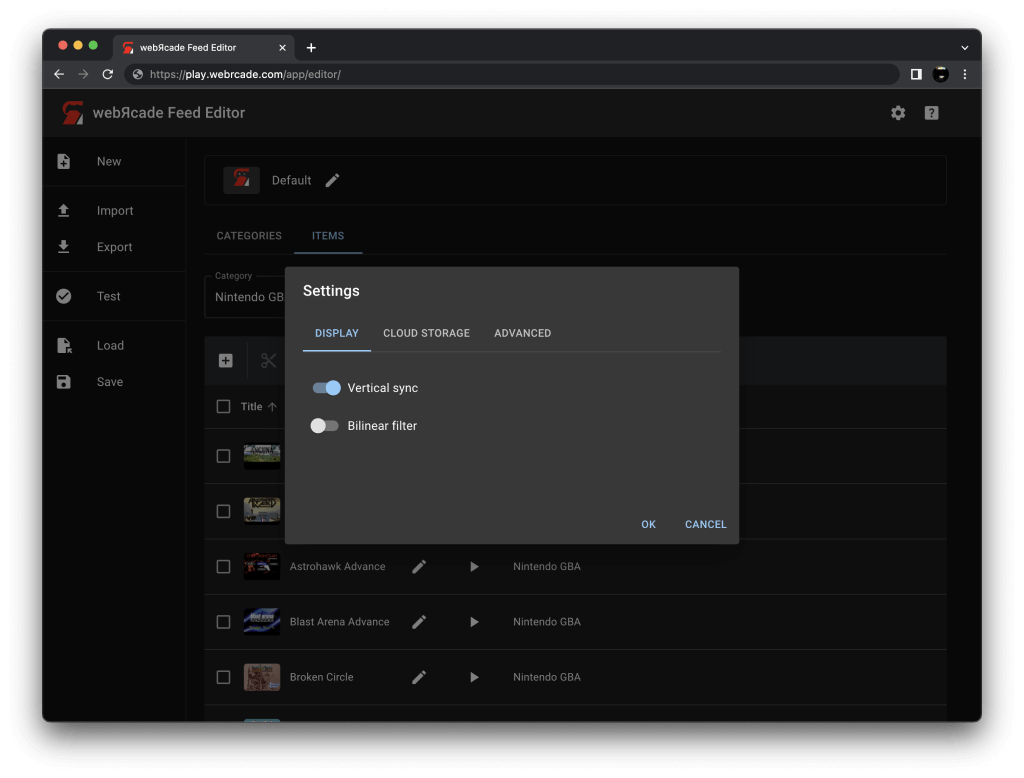
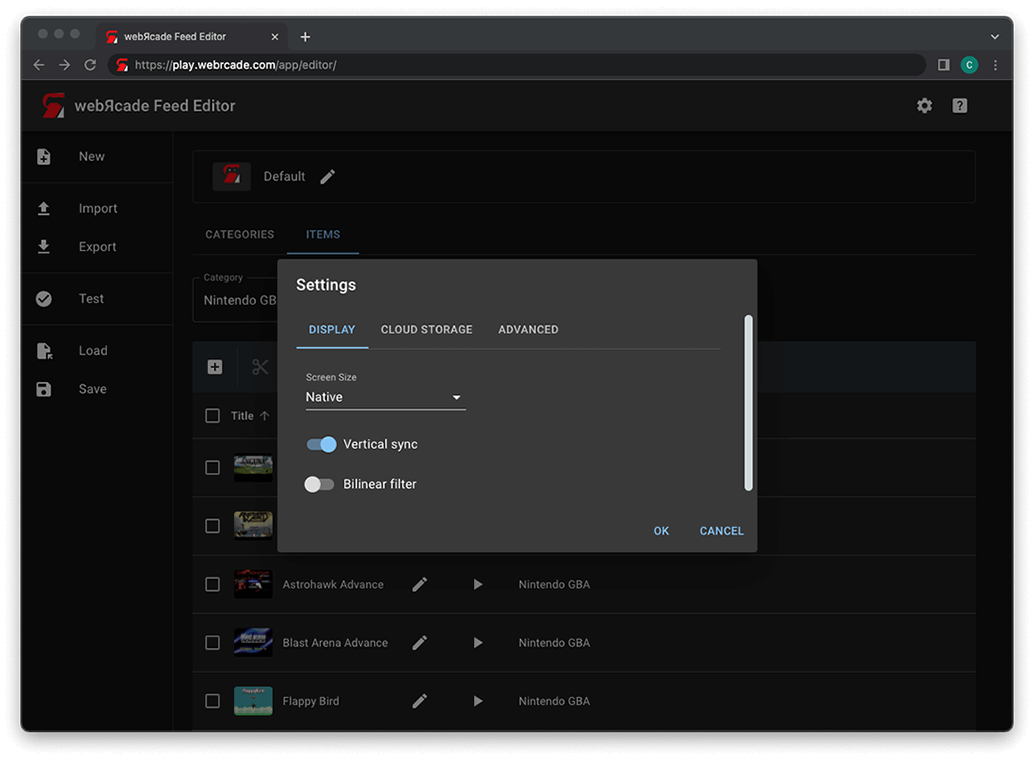
release 0.1.1

Changed region(s): [[0.0, 0.0, 1.0, 0.9974], [0.2188, 0.2116, 0.3438, 0.2418]]

diff --git a/docs/apps/emulators/sg1000/index.md b/docs/apps/emulators/sg1000/index.md
@@ -2,7 +2,7 @@
 
 ## Overview
 
-The Sega SG-1000 application is an emulator for the [Sega SG-1000 game console](https://en.wikipedia.org/wiki/SG-1000). 
+The Sega SG-1000 application is an emulator for the [Sega SG-1000 game console](https://en.wikipedia.org/wiki/SG-1000).
 
 <figure>
   <img src="../../../assets/images/apps/sg1000.png" style="padding:5px 15px 0 15px;" class="center zoomD"/>
@@ -19,11 +19,11 @@ Keyboard support is only available for controller one.
 
 | __Name__ | <div style="min-width:140px">__Keys__</div> | __Comments__ |
 |--------------------------|---------------------------------------------| |
-| Move | ![](../../../assets/images/controller/Keyboard & Mouse/Dark/Arrow_Up_Key_Dark.png){: class="control"} ![](../../../assets/images/controller/Keyboard & Mouse/Dark/Arrow_Down_Key_Dark.png){: class="control"} ![](../../../assets/images/controller/Keyboard & Mouse/Dark/Arrow_Left_Key_Dark.png){: class="control"} ![](../../../assets/images/controller/Keyboard & Mouse/Dark/Arrow_Right_Key_Dark.png){: class="control"}  | |                  
-| 1/Start | ![](../../../assets/images/controller/Keyboard & Mouse/Dark/Z_Key_Dark.png){: class="control"} | |                  
-| 2 | ![](../../../assets/images/controller/Keyboard & Mouse/Dark/X_Key_Dark.png){: class="control"} | |                  
-| Pause | ![](../../../assets/images/controller/Keyboard & Mouse/Dark/Enter_Key_Dark.png){: class="control"} | |                  
-| Show Pause Screen | ![](../../../assets/images/controller/Keyboard & Mouse/Dark/Esc_Key_Dark.png){: class="control"} | |                  
+| Move | ![](../../../assets/images/controller/Keyboard & Mouse/Dark/Arrow_Up_Key_Dark.png){: class="control"} ![](../../../assets/images/controller/Keyboard & Mouse/Dark/Arrow_Down_Key_Dark.png){: class="control"} ![](../../../assets/images/controller/Keyboard & Mouse/Dark/Arrow_Left_Key_Dark.png){: class="control"} ![](../../../assets/images/controller/Keyboard & Mouse/Dark/Arrow_Right_Key_Dark.png){: class="control"}  | |
+| 1/Start | ![](../../../assets/images/controller/Keyboard & Mouse/Dark/Z_Key_Dark.png){: class="control"} | |
+| 2 | ![](../../../assets/images/controller/Keyboard & Mouse/Dark/X_Key_Dark.png){: class="control"} | |
+| Pause | ![](../../../assets/images/controller/Keyboard & Mouse/Dark/Enter_Key_Dark.png){: class="control"} | |
+| Show Pause Screen | ![](../../../assets/images/controller/Keyboard & Mouse/Dark/Esc_Key_Dark.png){: class="control"} | |
 
 ### Gamepad
 
@@ -42,28 +42,30 @@ Gamepad support is available for both controllers.
 | Show Pause Screen<br>(Alternate 3)        | ![](../../../assets/images/controller/Xbox Series X/XboxSeriesX_LT.png){: class="control"} &nbsp;and&nbsp; ![](../../../assets/images/controller/Xbox Series X/XboxSeriesX_Left_Stick_Click.png){: class="control"} | Hold down the __Left Trigger__ and click (press down) on the __Left Thumbstick__. |
 | Show Pause Screen<br>(Alternate 4)        | ![](../../../assets/images/controller/Xbox Series X/XboxSeriesX_LT.png){: class="control"} &nbsp;and&nbsp; ![](../../../assets/images/controller/Xbox Series X/XboxSeriesX_Right_Stick_Click.png){: class="control"} | Hold down the __Left Trigger__ and click (press down) on the __Right Thumbstick__. |
 
-## Feed 
+## Feed
 
 This section details how SG-1000 application instances can be added to feeds.
 
 ### Type
 
-The type name for the SG-1000 application is `genplusgx-sg`. 
+The type name for the SG-1000 application is `genplusgx-sg`.
 
 !!! note
     The alias `sg1000` also currently maps to this application. In the future, the `sg1000` alias may be mapped
-    to another Sega SG-1000 application (different emulator implementation) if it is determined to be a 
+    to another Sega SG-1000 application (different emulator implementation) if it is determined to be a
     more appropriate default.
 
 ### Properties
 
 The table below contains the properties that are specific to the SG-1000 application. These properties are
-specified in the `props` object of a feed item. 
+specified in the `props` object of a feed item.
 
 | __Property__ | __Type__ | __Required__ | __Details__ |
 |----------|------|----------|---------|
 | pal | Boolean | No | Whether to force PAL video mode for the specified ROM. |
 | rom | URL | Yes | URL to a SG-1000 ROM file or a zip file containing a ROM file. |
+| zoomLevel | Numeric | No | A numeric value indicating how much the display image should be zoomed in (0-40).<br><br>This property is typically used to hide the black borders that are present on some games. |
+
 
 ### Example
 

diff --git a/docs/apps/emulators/2600/index.md b/docs/apps/emulators/2600/index.md
@@ -2,7 +2,7 @@
 
 ## Overview
 
-The Atari 2600 application is an emulator for the [Atari 2600 game console](https://en.wikipedia.org/wiki/Atari_2600). 
+The Atari 2600 application is an emulator for the [Atari 2600 game console](https://en.wikipedia.org/wiki/Atari_2600).
 
 
 <figure>
@@ -19,11 +19,11 @@ Keyboard support is only available for controller one.
 
 | __Name__ | __Keys__ | __Comments__ |
 |--------------------------|---------------------------------------------| |
-| Move | ![](../../../assets/images/controller/Keyboard & Mouse/Dark/Arrow_Up_Key_Dark.png){: class="control"} ![](../../../assets/images/controller/Keyboard & Mouse/Dark/Arrow_Down_Key_Dark.png){: class="control"} ![](../../../assets/images/controller/Keyboard & Mouse/Dark/Arrow_Left_Key_Dark.png){: class="control"} ![](../../../assets/images/controller/Keyboard & Mouse/Dark/Arrow_Right_Key_Dark.png){: class="control"}  | |                  
-| Fire | ![](../../../assets/images/controller/Keyboard & Mouse/Dark/Z_Key_Dark.png){: class="control"} | |                  
-| Reset | ![](../../../assets/images/controller/Keyboard & Mouse/Dark/Enter_Key_Dark.png){: class="control"} | |                  
-| Select | ![](../../../assets/images/controller/Keyboard & Mouse/Dark/Shift_Key_Dark.png){: class="control"} | The __Right Shift Key__.|                  
-| Show Pause Screen | ![](../../../assets/images/controller/Keyboard & Mouse/Dark/Esc_Key_Dark.png){: class="control"} | |                  
+| Move | ![](../../../assets/images/controller/Keyboard & Mouse/Dark/Arrow_Up_Key_Dark.png){: class="control"} ![](../../../assets/images/controller/Keyboard & Mouse/Dark/Arrow_Down_Key_Dark.png){: class="control"} ![](../../../assets/images/controller/Keyboard & Mouse/Dark/Arrow_Left_Key_Dark.png){: class="control"} ![](../../../assets/images/controller/Keyboard & Mouse/Dark/Arrow_Right_Key_Dark.png){: class="control"}  | |
+| Fire | ![](../../../assets/images/controller/Keyboard & Mouse/Dark/Z_Key_Dark.png){: class="control"} | |
+| Reset | ![](../../../assets/images/controller/Keyboard & Mouse/Dark/Enter_Key_Dark.png){: class="control"} | |
+| Select | ![](../../../assets/images/controller/Keyboard & Mouse/Dark/Shift_Key_Dark.png){: class="control"} | The __Right Shift Key__.|
+| Show Pause Screen | ![](../../../assets/images/controller/Keyboard & Mouse/Dark/Esc_Key_Dark.png){: class="control"} | |
 
 ### Gamepad
 
@@ -43,29 +43,29 @@ Gamepad support is available for both controllers.
 | Show Pause Screen<br>(Alternate 3)        | ![](../../../assets/images/controller/Xbox Series X/XboxSeriesX_LT.png){: class="control"} &nbsp;and&nbsp; ![](../../../assets/images/controller/Xbox Series X/XboxSeriesX_Left_Stick_Click.png){: class="control"} | Hold down the __Left Trigger__ and click (press down) on the __Left Thumbstick__. |
 | Show Pause Screen<br>(Alternate 4)        | ![](../../../assets/images/controller/Xbox Series X/XboxSeriesX_LT.png){: class="control"} &nbsp;and&nbsp; ![](../../../assets/images/controller/Xbox Series X/XboxSeriesX_Right_Stick_Click.png){: class="control"} | Hold down the __Left Trigger__ and click (press down) on the __Right Thumbstick__. |
 
-## Feed 
+## Feed
 
 This section details how Atari 2600 application instances can be added to feeds.
 
 ### Type
 
-The type name for the Atari 2600 application is `javatari`. 
+The type name for the Atari 2600 application is `javatari`.
 
 !!! note
     The alias `2600` also currently maps to this application. In the future, the `2600` alias may be mapped
-    to another Atari 2600 application (different emulator implementation) if it is determined to be a 
+    to another Atari 2600 application (different emulator implementation) if it is determined to be a
     more appropriate default.
 
 ### Properties
 
 The table below contains the properties that are specific to the Atari 2600 application. These properties are
-specified in the `props` object of a feed item. 
+specified in the `props` object of a feed item.
 
 | __Property__ | __Type__ | __Required__ | __Details__ |
 |----------|------|----------|---------|
 | rom | URL | Yes | URL to an Atari 2600 ROM file or a zip file containing a ROM file. |
 | swap | Boolean | No | Whether to swap the controller ports. This is typically enabled when games default to using port 2 (versus port 1). |
-
+| zoomLevel | Numeric | No | A numeric value indicating how much the display image should be zoomed in (0-40).<br><br>This property is typically used to hide the black borders that are present on some games. |
 
 ### Example
 

diff --git a/docs/userguide/index.md b/docs/userguide/index.md
@@ -153,6 +153,7 @@ The settings contained in this tab are detailed below:
 
 | __Field__ | __Description__ |
 | --- | --- |
+| Screen size | The screen size to use when playing a game.<br><br>Options include:<br><ul><li>`Native` : The application's native resolution</li><li>`16:9` : Widescreen resolution</li><li>`Fill` : Fill the entire contents of the screen</li></ul> |
 | Vertical sync | Enables vertical sync (VSync) when playing games. Vertical sync attempts to synchronize the frame rate of the game with the display (screen) which eliminates artifacts such as screen tearing.<br><br>This setting can be disabled if performance-related issues are experienced.  |
 | Bilinear filter | Performs bilinear interpolation on the output display. Enabling bilinear filtering produces display output where pixels are not as sharp and pronounced. |
 
@@ -193,9 +194,10 @@ The "Pause Screen" can be displayed when an item (game, etc.) is running. The pa
 
 While each application (emulator, etc.) can provide their own unique options within the pause screen, the following will always be available.
 
-* `Return to Browse` (*See #1 in screenshot above*) - Returns to the most recent [Items View](#items-view).
+* `Return to Browse (or Editor)` (*See #1 in screenshot above*) - Returns to the most recent [Items View](#items-view) (or editor if launched from within the [Editor](../editor)).
 * `View Controls` (*See #2 in screenshot above*) - Displays the gamepad and keyboard controls for the current item (game, etc.).
-* `Resume` (*See #3 in screenshot above*) - Resumes playing the current item (game, etc.).
+* `Application Settings` (*See #3 in screenshot above*) - Displays the settings for the current application (emulator, etc.). See the [Application Settings Screen](#application-settings-screen) section for more information.
+* `Resume` (*See #4 in screenshot above*) - Resumes playing the current item (game, etc.).
 
 The majority of emulator-based applications support save states. Save states require [cloud storage](../storage/) to be enabled.
 
@@ -228,4 +230,19 @@ The following tables include the button mappings that can be used to display the
 | --- | --- | --- |
 | Show Pause Screen | :material-gesture-tap:{ style="transform: scale(2.1); padding-right:5px" } Tap | Tap screen to show pause screen.  |
 
+### Application Settings Screen
 
+The application settings screen contains tabs with settings that are specific to the current application (emulator, etc). While many of the tabs are application-specific, the "Display Settings Tab" (detailed below), will be present for the majority of applications.
+
+#### Display Settings Tab
+
+The "Display Settings Tab" contains settings that are used to control the output display for the current application (emulator, etc.).
+
+![](../assets/images/userguide/system-settings-display-setting-tab.png){: style="padding:5px;" class="center zoomD"}
+
+The settings contained in this tab are detailed below:
+
+| __Field__ | __Description__ |
+| --- | --- |
+| Screen size | The screen size to use when playing a game.<br><br>Options include:<br><ul><li>`(Default)` : Use the global setting (found in the [Player Settings Dialog](#settings-dialog) and [Editor Settings Dialog](../editor/workspace/settings#settings-dialog)).</li><li>`Native` : The application's native resolution</li><li>`16:9` : Widescreen resolution</li><li>`Fill` : Fill the entire contents of the screen</li></ul> |
+| Bilinear filter | Performs bilinear interpolation on the output display. Enabling bilinear filtering produces display output where pixels are not as sharp and pronounced. |

diff --git a/docs/apps/emulators/neogeo/index.md b/docs/apps/emulators/neogeo/index.md
@@ -98,7 +98,7 @@ specified in the `props` object of a feed item.
 | volAdjust | Numeric | No | Adjusts the volume from its default level.<br><br>Possible values range from `-99` to `99`.<br><br>In the vast majority of cases this setting should never be utilized. But, for some games where the default volume level is extremely low (inaudible), this property can be used to make the sound audible. |
 | bios | Numeric | No | The BIOS to use (must be available in the BIOS zip file).<br><ul><li>`0` : (default)</li><li>`1` : MVS Asia/Europe ver. 6 (1 slot)</li><li>`2` : MVS Asia/Europe ver. 5 (1 slot)</li><li>`3` : MVS Asia/Europe ver. 3 (4 slot)</li><li>`4` : MVS USA ver. 5 (2 slot)</li><li>`5` : MVS USA ver. 5 (4 slot)</li><li>`6` : MVS USA ver. 5 (6 slot)</li><li>`7` : MVS USA (U4)</li><li>`8` : MVS USA (U3)</li><li>`9` : MVS Japan ver. 6 (? slot)</li><li>`10` : MVS Japan ver. 5 (? slot)</li><li>`11` : MVS Japan ver. 3 (4 slot)</li><li>`12` : NEO-MVH MV1C (Asia)</li><li>`13` : NEO-MVH MV1C (Japan)</li><li>`14` : MVS Japan (J3)</li><li>`15` : MVS Japan (J3, alt)</li><li>`16` : AES Japan</li><li>`17` : AES Asia</li><li>`18` : Development Kit</li><li>`19` : Deck ver. 6 (Git Ver 1.3)</li><li>`20` : Universe BIOS ver. 4.0</li><li>`21` : Universe BIOS ver. 3.3</li><li>`22` : Universe BIOS ver. 3.2</li><li>`23` : Universe BIOS ver. 3.1</li><li>`24` : Universe BIOS ver. 3.0</li><li>`25` : Universe BIOS ver. 2.3</li><li>`26` : Universe BIOS ver. 2.3 (alt)</li><li>`27` : Universe BIOS ver. 2.2</li><li>`28` : Universe BIOS ver. 2.1</li><li>`29` : Universe BIOS ver. 2.0</li><li>`30` : Universe BIOS ver. 1.3</li><li>`31` : Universe BIOS ver. 1.2</li><li>`32` : Universe BIOS ver. 1.2 (alt)</li><li>`33` : Universe BIOS ver. 1.1</li><li>`34` : Universe BIOS ver. 1.0</li><li>`35` : NeoOpen BIOS v0.1 beta</li></ul>  |
 | forceAesMode | Boolean | No | Whether to force AES (console) mode (must be supported by selected `bios`). |
-
+| zoomLevel | Numeric | No | A numeric value indicating how much the display image should be zoomed in (0-40).<br><br>This property is typically used to hide the black borders that are present on some games. |
 
 ### Example
 

diff --git a/docs/apps/emulators/7800/index.md b/docs/apps/emulators/7800/index.md
@@ -20,7 +20,7 @@ Keyboard support is only available for controller one.
 | __Name__ | __Keys__ | __Comments__ |
 |--------------------------|---------------------------------------------| |
 | Move | ![](../../../assets/images/controller/Keyboard & Mouse/Dark/Arrow_Up_Key_Dark.png){: class="control"} ![](../../../assets/images/controller/Keyboard & Mouse/Dark/Arrow_Down_Key_Dark.png){: class="control"} ![](../../../assets/images/controller/Keyboard & Mouse/Dark/Arrow_Left_Key_Dark.png){: class="control"} ![](../../../assets/images/controller/Keyboard & Mouse/Dark/Arrow_Right_Key_Dark.png){: class="control"}  | |
-| Fire 1 | ![](../../../assets/images/controller/Keyboard & Mouse/Dark/Z_Key_Dark.png){: class="control"} | |                
+| Fire 1 | ![](../../../assets/images/controller/Keyboard & Mouse/Dark/Z_Key_Dark.png){: class="control"} | |
 | Fire 2 | ![](../../../assets/images/controller/Keyboard & Mouse/Dark/X_Key_Dark.png){: class="control"} | |
 | Reset | ![](../../../assets/images/controller/Keyboard & Mouse/Dark/Enter_Key_Dark.png){: class="control"} | |
 | Select | ![](../../../assets/images/controller/Keyboard & Mouse/Dark/Shift_Key_Dark.png){: class="control"} | The __Right Shift Key__.|
@@ -67,6 +67,7 @@ specified in the `props` object of a feed item.
 | __Property__ | __Type__ | __Required__ | __Details__ |
 |----------|------|----------|---------|
 | rom | URL | Yes | URL to an Atari 7800 ROM file or a zip file containing a ROM file. |
+| zoomLevel | Numeric | No | A numeric value indicating how much the display image should be zoomed in (0-40).<br><br>This property is typically used to hide the black borders that are present on some games. |
 
 
 ### Example

diff --git a/docs/apps/emulators/arcade/index.md b/docs/apps/emulators/arcade/index.md
@@ -91,6 +91,7 @@ specified in the `props` object of a feed item.
 | samples | URL | No | URL to a zip file containing audio samples for the arcade game. A subset of games support the optional use of audio samples for sounds that are not currently emulated. |
 | volAdjust | Numeric | No | Adjusts the volume from its default level.<br><br>Possible values range from `-99` to `99`.<br><br>In the vast majority of cases this setting should never be utilized. But, for some games where the default volume level is extremely low (inaudible), this property can be used to make the sound audible. |
 | playerOrder | String | No | This string is used to determine the order of the players.<br><br>This is typically used for games that have characters that are mapped to a particular coin/start button. In many of these cases, the "preferred" characters are associated with players two and three. Using this string allows for mapping those players to gamepads one and two.<br><br>In the string below, gamepads one and two (zero-based) are mapped to players two and three.<br><br>`2:0:1:3` |
+| zoomLevel | Numeric | No | A numeric value indicating how much the display image should be zoomed in (0-40).<br><br>This property is typically used to hide the black borders that are present on some games. |
 
 ### Example
 

diff --git a/docs/apps/emulators/segacd/index.md b/docs/apps/emulators/segacd/index.md
@@ -43,24 +43,6 @@ A single BIOS file for each region (USA, Japan, and Europe) must be specified (f
 | `bios_CD_E.bin` | 9b562ebf2d095bf1dabadbc1881f519a | Europe | Model 2 v2.00 (1993) |
 | `bios_CD_E.bin` | b10c0a97abc57b758497d3fae6ab35a4 | Europe | Model 2 v2.00w (1993) |
 
-## Settings
-
-The Sega CD Application includes a custom settings dialog.
-
-![](../../../assets/images/apps/segacd/segacd-settings.png){: class="center zoomD"}
-
-To access these settings, display the "Pause" screen and select the "Sega CD Settings" option (*See screenshot above*).
-
-### Display Tab
-
-The Sega CD Application "display tab" settings are detailed below.
-
-| __Field__ | __Description__ |
-| --- | --- |
-| Force bilinear filter | <p>Forces bilinear interpolation on the output display. Enabling bilinear filtering produces display output where pixels are not as sharp and pronounced.</p><p>Enabling this setting will override the global bilinear filter setting for the Sega CD application.</p>  |
-
-![](../../../assets/images/apps/segacd/segacd-display-settings.png){: class="center zoomD"}
-
 ## Controls
 
 The emulator supports up to two controllers. The keyboard and gamepad mappings are listed in the tables below.

diff --git a/docs/apps/emulators/gb/index.md b/docs/apps/emulators/gb/index.md
@@ -74,6 +74,7 @@ specified in the `props` object of a feed item.
 | colors | Numeric | No | The category of colors to use for the display. (defaults to Grayscale).<br><ul><li>`0` : Grayscale</li><li>`1` : Greenscale</li><li>`2` : Super Game Boy</li></ul> |
 | palette | Numeric | No | The specific palette to use within the selected color category (see `colors` property).<br><br> This value defaults to the first palette available within the selected color category.<br><br>Each color category has a set of palettes available for selection. The simplest way to determine a specific palette value for this property is by using the [Feed Editor](../../../editor/index.md), selecting a palette, exporting the feed and viewing the numeric value for the selected palette.  |
 | border | Numeric | No | Whether to display a border around the screen (defaults to `Off`).<br><ul><li>`0` : Off</li><li>`1` : On</li><li>`2` : Automatic</li></ul> |
+| zoomLevel | Numeric | No | A numeric value indicating how much the display image should be zoomed in (0-40).<br><br>This property is typically used to hide the black borders that are present on some games. |
 
 ### Example
 

diff --git a/docs/apps/emulators/psx/index.md b/docs/apps/emulators/psx/index.md
@@ -80,16 +80,6 @@ The PlayStation Application "controller tab" settings are detailed below. It is 
 | Analog mode | Enables *Analog mode* on the PlayStation DualShock controller. Some games will automatically force this mode. However, this setting allows for forcing the controller into analog mode. |
 | Swap controllers (ports 1 and 2) | Swaps controllers 1 and 2. This is necessary in some games as they require the use of both controller ports (even during a single player game). |
 
-### Display Tab
-
-The PlayStation Application "display tab" settings are detailed below.
-
-| __Field__ | __Description__ |
-| --- | --- |
-| Force bilinear filter | <p>Forces bilinear interpolation on the output display. Enabling bilinear filtering produces display output where pixels are not as sharp and pronounced.</p><p>Enabling this setting will override the global bilinear filter setting for the PlayStation application.</p>  |
-
-![](../../../assets/images/apps/psx/psx-display-settings.png){: class="center zoomD"}
-
 ## Controls
 
 The emulator supports up to four controllers. The keyboard and gamepad mappings are listed in the tables below.

diff --git a/docs/apps/emulators/pcecd/index.md b/docs/apps/emulators/pcecd/index.md
@@ -34,24 +34,6 @@ In addition to PC Engine CD Disc images, the following BIOS file must be specifi
 | --- | --- |
 | `syscard3.pce` | '38179df8f4ac870017db21ebcbf53114' |
 
-## Settings
-
-The PC Engine CD Application includes a custom settings dialog.
-
-![](../../../assets/images/apps/pcecd/pcecd-settings.png){: class="center zoomD"}
-
-To access these settings, display the "Pause" screen and select the "PC Engine Settings" option (*See screenshot above*).
-
-### Display Tab
-
-The PC Engine CD Application "display tab" settings are detailed below.
-
-| __Field__ | __Description__ |
-| --- | --- |
-| Force bilinear filter | <p>Forces bilinear interpolation on the output display. Enabling bilinear filtering produces display output where pixels are not as sharp and pronounced.</p><p>Enabling this setting will override the global bilinear filter setting for the PC Engine CD application.</p>  |
-
-![](../../../assets/images/apps/pcecd/pcecd-display-settings.png){: class="center zoomD"}
-
 ## Controls
 
 The emulator supports up to four controllers. The keyboard and gamepad mappings are listed in the tables below.

diff --git a/docs/apps/emulators/gba/index.md b/docs/apps/emulators/gba/index.md
@@ -82,7 +82,7 @@ specified in the `props` object of a feed item.
 | saveType | Numeric | No | The type of save hardware utilized by the cartridge.<br><ul><li>`0` : Auto Detect</li><li>`1` : EEPROM</li><li>`2` : SRAM</li><li>`3` : Flash</li><li>`4` : EEPROM + Sensor</li><li>`5` : None</li></ul> |
 | flashSize | Numeric | No | The size of the flash ram (only applicable for flash save type).<br><br>Valid values are 65536 and 131072. |
 | disableLookup | Boolean | No | <p>Disables looking up a game's settings based on Game ID.</p><p>This allows  all settings to be overridden even if the game is recognized. This is typically useful for "hacks" that are based on a standard game ID, but have unique settings (use of Real-time clock, etc.).</p> |
-
+| zoomLevel | Numeric | No | A numeric value indicating how much the display image should be zoomed in (0-40).<br><br>This property is typically used to hide the black borders that are present on some games. |
 
 ### Example
 

diff --git a/docs/apps/emulators/pcfx/index.md b/docs/apps/emulators/pcfx/index.md
@@ -34,23 +34,6 @@ In addition to PC-FX Disc images, the following BIOS file must be specified glob
 | --- | --- |
 | `pcfx.rom` | 08e36edbea28a017f79f8d4f7ff9b6d7 |
 
-## Settings
-
-The PC-FX Application includes a custom settings dialog.
-
-![](../../../assets/images/apps/pcfx/pcfx-settings.png){: class="center zoomD"}
-
-To access these settings, display the "Pause" screen and select the "PC-FX Settings" option (*See screenshot above*).
-
-### Display Tab
-
-The PC-FX Application "display tab" settings are detailed below.
-
-| __Field__ | __Description__ |
-| --- | --- |
-| Force bilinear filter | <p>Forces bilinear interpolation on the output display. Enabling bilinear filtering produces display output where pixels are not as sharp and pronounced.</p><p>Enabling this setting will override the global bilinear filter setting for the PC-FX application.</p>  |
-
-![](../../../assets/images/apps/pcfx/pcfx-display.png){: class="center zoomD"}
 
 ## Controls
 
